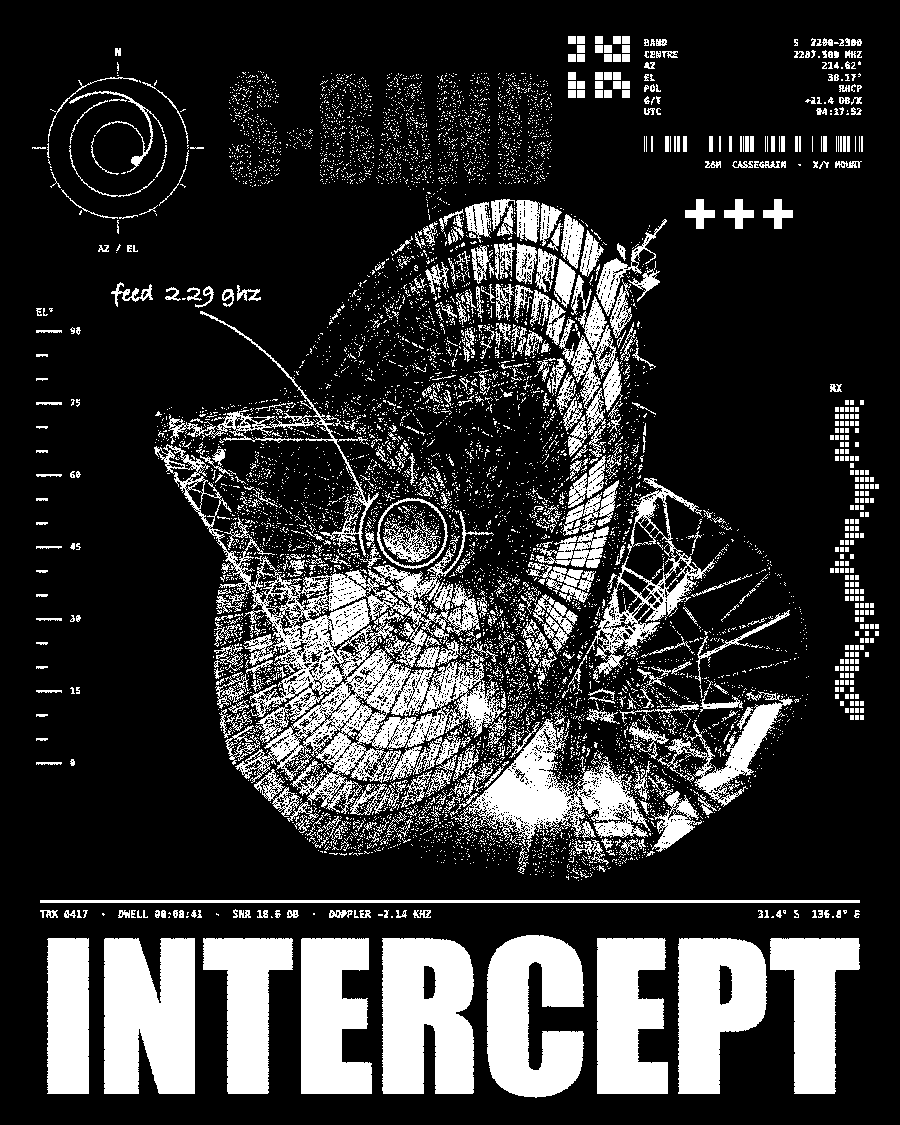
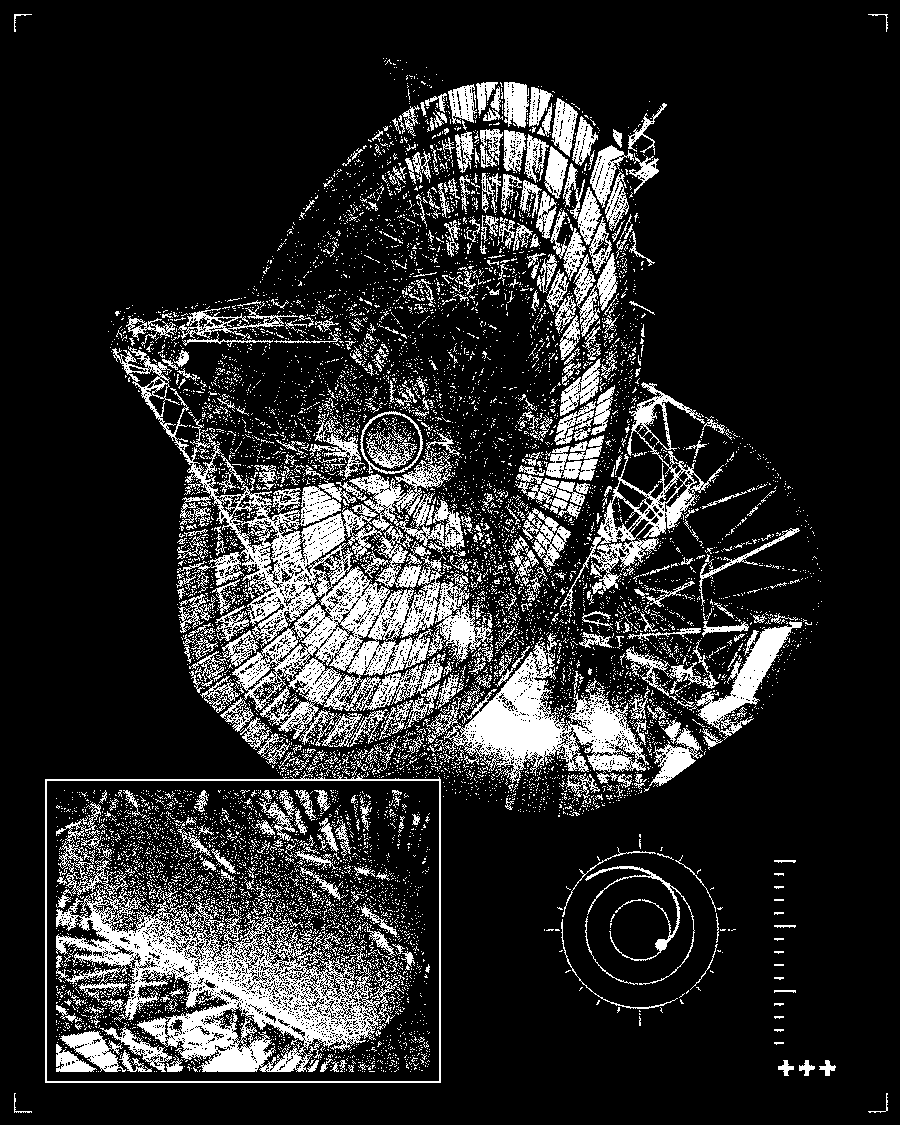
Hacker photo posters, text-free LISTEN and INTERCEPT, fill gutter gaps

diff --git a/_sass/_vibe-sides.scss b/_sass/_vibe-sides.scss
@@ -241,6 +241,9 @@ html.vibe-wait .vibe-layer { opacity: 0; }
   .vibe-ph--watched   { --m: url("../../images/vibe/poster-watched.png?v=#{$vibe-v}"); }
   .vibe-ph--backbone  { --m: url("../../images/vibe/poster-backbone.png?v=#{$vibe-v}"); }
   .vibe-ph--archive   { --m: url("../../images/vibe/poster-archive.png?v=#{$vibe-v}"); }
+  .vibe-ph--terminal  { --m: url("../../images/vibe/poster-terminal.png?v=#{$vibe-v}"); }
+  .vibe-ph--drop      { --m: url("../../images/vibe/poster-drop.png?v=#{$vibe-v}"); }
+  .vibe-ph--bypass    { --m: url("../../images/vibe/poster-bypass.png?v=#{$vibe-v}"); }
   .vibe-slot { --sw: clamp(190px, 72%, 330px); --ar: 900 / 1125; }
   .vibe-ph.vibe-slot   { --x: var(--sx); --y: var(--sy); --w: var(--sw); --o: 0.34; --b: 0px; }
   .vibe-card.vibe-slot { --x: calc(var(--sx) - 6px); --y: calc(var(--sy) - 8px); --w: calc(var(--sw) + 12px); opacity: min(0.92, calc(var(--vibe-paper-o) + 0.3)); }
@@ -249,6 +252,7 @@ html.vibe-wait .vibe-layer { opacity: 0; }
   .vibe-slot--l3 { --sx: 3%;                    --sy: clamp(1540px, 73%, 3700px); --r: 1.5deg; }
   /* Extra slots for long pages (certificates, guides): only once the page is tall enough (below). */
   .vibe-slot--la { --sx: 5%;                    --sy: clamp(1100px, 52%, 3400px); --r: -1.5deg; }   /* NOISE's old spot; higher on long pages */
+  .vibe-slot--lc { --sx: 7%;                    --sy: 58%; --r: 2deg; }
   .vibe-slot--lb { --sx: 4%;                    --sy: 85%; --r: 1deg; }
   .vibe-slot--ra { --sx: calc(96% - var(--sw)); --sy: 19%; --r: -2deg; }
   .vibe-slot--rb { --sx: calc(97% - var(--sw)); --sy: 54%; --r: 1.5deg; }
@@ -394,6 +398,8 @@ html.vibe-wait .vibe-layer { opacity: 0; }
 @container vibe (min-width: 1680px) and (min-height: 2900px) {
   .vibe-slot--long { display: block !important; }
   .vibe-slot--la { --sy: 41.5%; }
+  .vibe-cluster--l2 .vibe-ph--dish, .vibe-cluster--l2 .vibe-p--monitors, .vibe-cluster--l2 .vibe-p--scrap2,
+  .vibe-cluster--l2 .vibe-p--radio, .vibe-cluster--l2 .vibe-p--tape { display: none !important; }
   /* sketches that sit under the long-page posters (measured on a certificate page at 1920px) */
   .vibe-kit--fieldkit, .vibe-kit-tape--fieldkit, .vibe-sec--fingerprint, .vibe-cluster--r1 .vibe-p--qr, .vibe-cluster--r1 .vibe-p--tape2,
   .vibe-x--eye, .vibe-sec--padlock, .vibe-cluster--r2 .vibe-p--pcb, .vibe-cluster--r2 .vibe-p--lockpick { display: none !important; }

diff --git a/_includes/vibe-layer.html b/_includes/vibe-layer.html
@@ -6,11 +6,11 @@
   Styles: _sass/_vibe-sides.scss. Pieces marked --minor drop out on narrower gutters.
 {% endcomment %}
 {% comment %} Grain-print posters: three slots per page, a different rotation of the six per page. {% endcomment %}
-{% assign vibe_posters = "core,watched,mainframe,intercept,backbone,vapor,archive,orbit,pivot,array,cipher,exfil,0day,relay" | split: "," %}
+{% assign vibe_posters = "terminal,bypass,mainframe,drop,core,watched,intercept,backbone,vapor,archive,orbit,pivot,array,cipher,exfil,0day,relay" | split: "," %}
 {% assign vn = vibe_posters | size %}
 {% if page.url == "/" %}{% assign vp0 = 0 %}{% else %}{% assign vh = 7 %}{% assign vchars = page.url | downcase | split: "" %}{% for c in vchars %}{% assign vi = "abcdefghijklmnopqrstuvwxyz0123456789-_./" | split: c | first | size %}{% assign vh = vh | times: 29 | plus: vi | modulo: 99991 %}{% endfor %}{% assign vp0 = vh | modulo: vn %}{% endif %}
 {% assign vp1 = vp0 | plus: 1 | modulo: vn %}{% assign vp2 = vp0 | plus: 2 | modulo: vn %}{% assign vp3 = vp0 | plus: 3 | modulo: vn %}
-{% assign vp4 = vp0 | plus: 4 | modulo: vn %}{% assign vp5 = vp0 | plus: 5 | modulo: vn %}{% assign vp6 = vp0 | plus: 6 | modulo: vn %}{% assign vp7 = vp0 | plus: 7 | modulo: vn %}
+{% assign vp4 = vp0 | plus: 4 | modulo: vn %}{% assign vp5 = vp0 | plus: 5 | modulo: vn %}{% assign vp6 = vp0 | plus: 6 | modulo: vn %}{% assign vp7 = vp0 | plus: 7 | modulo: vn %}{% assign vp8 = vp0 | plus: 8 | modulo: vn %}
 <div class="vibe-layer" aria-hidden="true">
   <div class="vibe-side vibe-side--left">
 
@@ -67,6 +67,8 @@
     <span class="vibe-ph vibe-ph--{{ vibe_posters[vp2] }} vibe-slot vibe-slot--l3"></span>
     <span class="vibe-p vibe-card vibe-slot vibe-slot--la"></span>
     <span class="vibe-ph vibe-ph--{{ vibe_posters[vp3] }} vibe-slot vibe-slot--la"></span>
+    <span class="vibe-p vibe-card vibe-slot vibe-slot--long vibe-slot--lc"></span>
+    <span class="vibe-ph vibe-ph--{{ vibe_posters[vp8] }} vibe-slot vibe-slot--long vibe-slot--lc"></span>
     <span class="vibe-p vibe-card vibe-slot vibe-slot--long vibe-slot--lb"></span>
     <span class="vibe-ph vibe-ph--{{ vibe_posters[vp4] }} vibe-slot vibe-slot--long vibe-slot--lb"></span>
 
